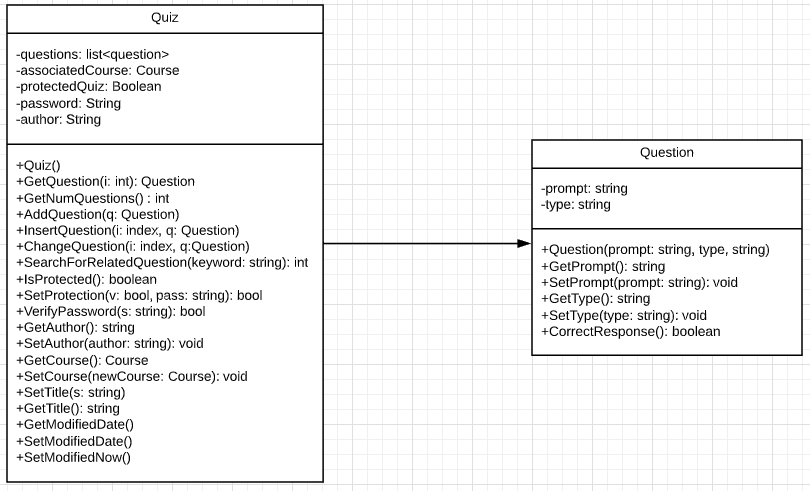
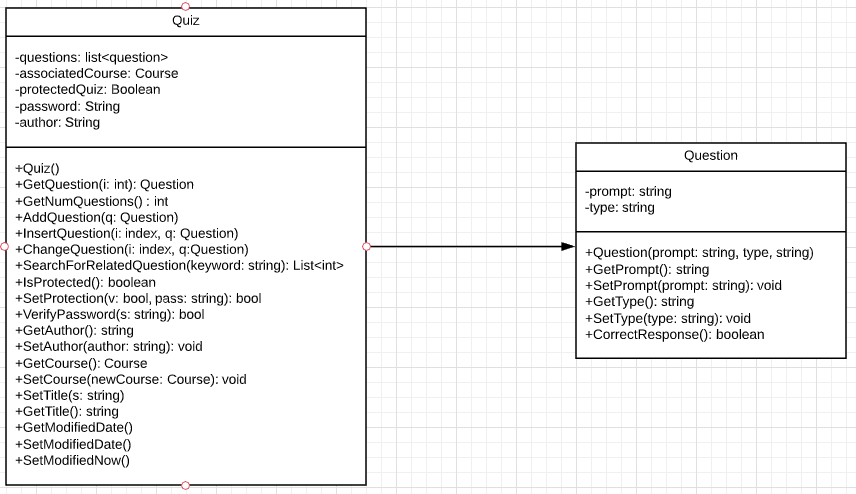
Added changes to D5 and DesignPattern5.2 figure that reflect the refactoring made to the SearchForRelatedQuestion() method

Changed region(s): [[0.0, 0.0, 1.0, 1.0], [0.6481, 0.1222, 0.679, 0.1527], [0.4938, 0.2444, 0.5247, 0.2749]]

diff --git a/DESIGN.md b/DESIGN.md
@@ -39,8 +39,9 @@ Design Pattern 1: (Behavioral) Template Method - FITBQuestion overrides the Corr
 ![Figure 5.2](https://github.com/brandonbjs/Quiz-Creator/blob/master/DesignPattern5.2.PNG)
 
 Design Pattern 2: (Behavioral) Iterator Pattern - SearchForRelatedQuestion() method iterates through the quiz class' available
-list of questions and searches the question prompts to find the first question that contains the user entered keyword. If a related
-question is found, it returns the question index, otherwise the method returns -1.
+list of questions and searches the question prompts to find the indexes of all the questions that contain the user entered keyword. 
+If related questions are found, it returns a list of integers containing all the indexes corresponding to the questions containing
+the keyword, otherwise the method returns null.
 [Quiz Class Link](https://github.com/brandonbjs/Quiz-Creator/blob/master/Quiz-Creator/Quiz.cs)
  / [Question Class Link](https://github.com/brandonbjs/Quiz-Creator/blob/master/Quiz-Creator/Question.cs)
 
